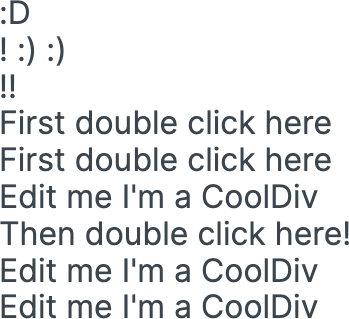
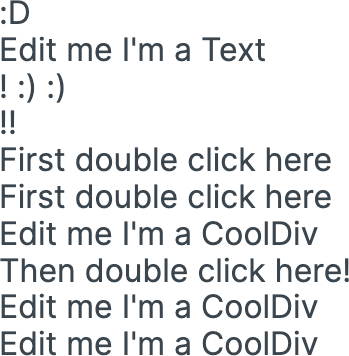
[ecu] Edit text on component App

diff --git a/app/src/App.tsx b/app/src/App.tsx
@@ -41,7 +41,7 @@ function App(props: AppPropsType) {
     <>
       <Div data-ecu="bPO8puWJxw:0">
         <Text data-ecu="bPO8puWJxw:0_0">:D</Text>
-        <Text data-ecu="bPO8puWJxw:0_1">Edit me I'm a Text</Text>
+        <Text data-ecu="bPO8puWJxw:0_1">Edit me I'm a Text!</Text>
       </Div>
       <Text data-ecu="bPO8puWJxw:1">! :) :)</Text>
       <Text data-ecu="bPO8puWJxw:2">!!</Text>
